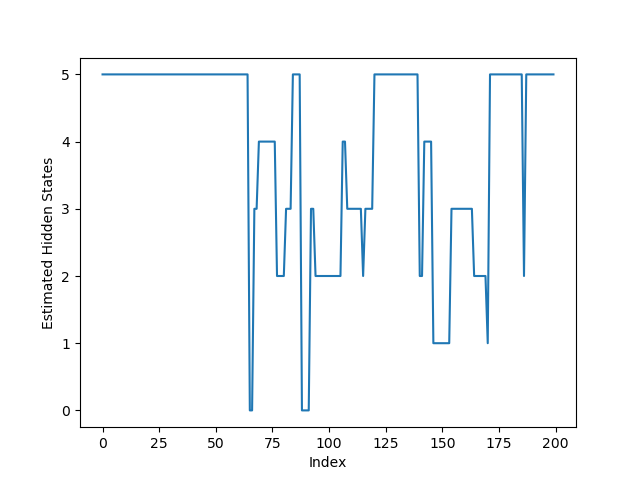
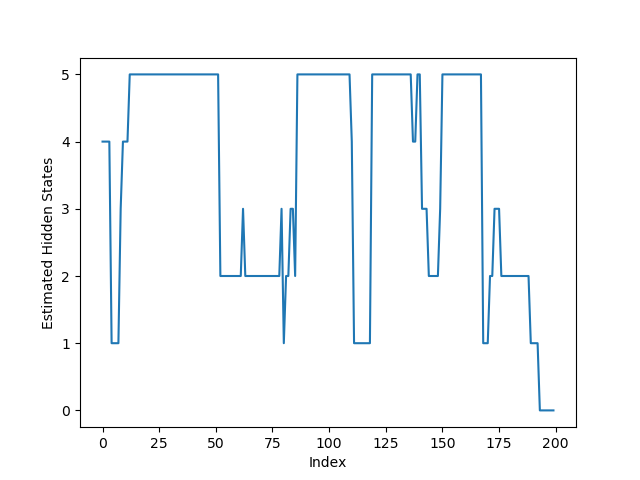
fixed test error bug

diff --git a/src/main.py b/src/main.py
@@ -4,19 +4,6 @@ from cross_validation import CrossValidation
 
 if __name__ == "__main__":
 
-    '''
-    MaxLike
-    '''
-        # model = crossValidation()
-        # train_rate = model.training_rate(MaxLike=True, BayesianLike = False)
-        # print(train_rate)  #0.803
-        # test_rate = model.test_rate(MaxLike=True, BayesianLike=False)
-        # print(test_rate)  #0.845
-
-    model = CrossValidation(bayesian=True)
-    print(model.train(num_obs=1000))
-    print(model.test())
-
     train_bayesian = np.array([None] * 100)
     test_bayesian = np.array([None] * 100)
 
@@ -25,11 +12,20 @@ if __name__ == "__main__":
 
     bayesian = True
     if bayesian == True:
+        num_training = 1000
+        num_test = 200
+        num_iter = 100
+        num_burnin = 100
+
         for i in range(100):
 
             model = CrossValidation(bayesian = bayesian)
-            train_bayesian[i] = model.train(num_obs = 1000)
-            test_bayesian[i] = model.test()
+            rate, state_path, test_set, test_state_path = model.train(num_training=1000,
+                                                                      num_test=200,
+                                                                      num_iter=num_iter,
+                                                                      num_burnin=num_burnin)
+            train_bayesian[i] = rate
+            test_bayesian[i] = model.test(state_path, test_set, test_state_path)
             print(train_bayesian[i])
             print(test_bayesian[i])
 
@@ -55,13 +51,13 @@ if __name__ == "__main__":
         print("The test rate using Maxlike is: %d" % test_rate)
 
 
-    # TODO: (SHERRY) finish up cv
-    for i in range(100):
-        # ... arr = np.array()
-        model = CrossValidation(bayesian = bayesian)
-        state_path, test_set, test_state_path = model.train(num_training=1000,
-                                                            num_test=200,
-                                                            num_iter=100,
-                                                            num_burnin=100)
-        model.test(state_path, test_set, test_state_path)
+    # # TODO: (SHERRY) finish up cv
+    # for i in range(100):
+    #     # ... arr = np.array()
+    #     model = CrossValidation(bayesian = bayesian)
+    #     state_path, test_set, test_state_path = model.train(num_training=1000,
+    #                                                         num_test=200,
+    #                                                         num_iter=100,
+    #                                                         num_burnin=100)
+    #     model.test(state_path, test_set, test_state_path)
 

diff --git a/src/cross_validation.py b/src/cross_validation.py
@@ -71,8 +71,8 @@ class CrossValidation:
             plot(path, ylabel = "Estimated Hidden States", name = "Max_Viterbi_Path",bayesian=False)
 
         
-        print("Training Rate:", rate)
-        return state_path, test_set, test_state_path
+        # print("Training Rate:", rate)
+        return rate, state_path, test_set, test_state_path
 
     def test(self, state_path, test_set, test_state_path):
 
@@ -98,6 +98,7 @@ class CrossValidation:
             plot(test_path, ylabel="Estimated Hidden States", name="Max_Viterbi_Test_Path", bayesian=False)
 
 
-        print("Test Rate:", rate)
+        # print("Test Rate:", rate)
+        return rate
 
 
